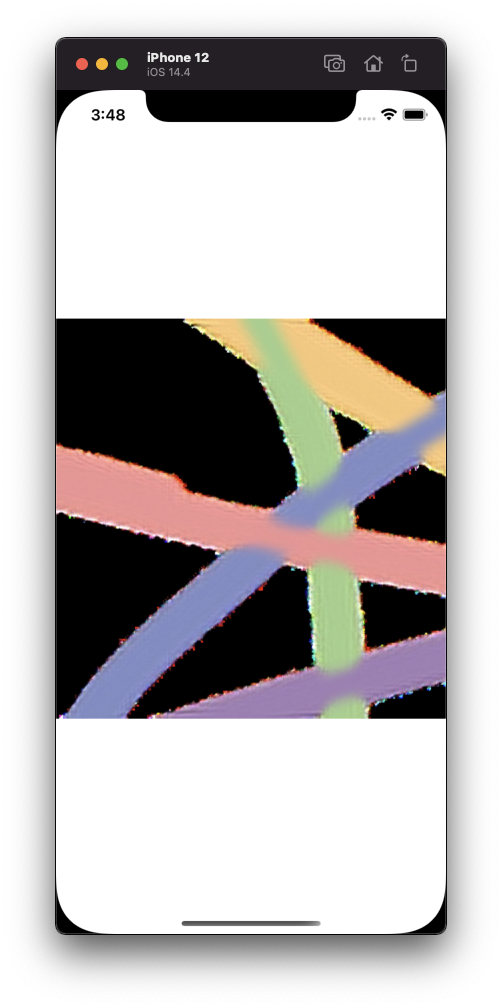
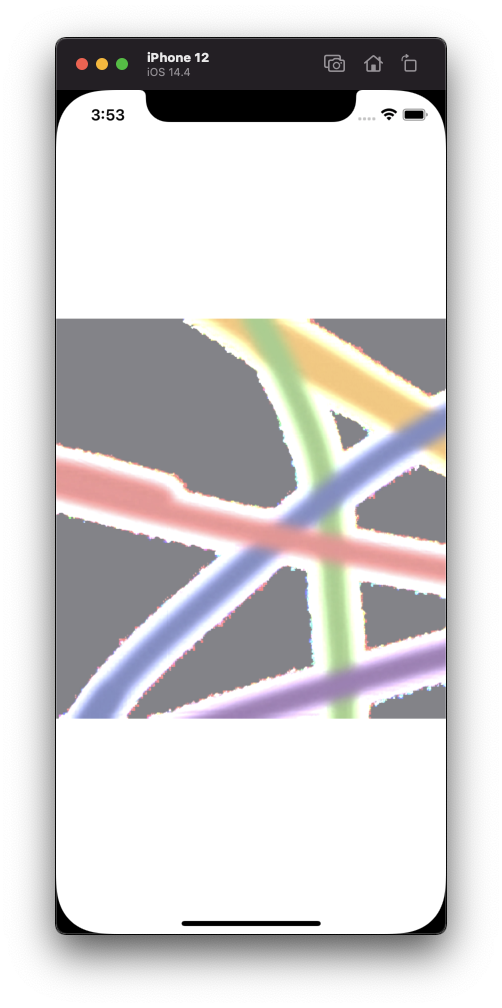
Gray background is more visible

Changed region(s): [[0.0896, 0.3075, 0.8964, 0.7381], [0.3586, 0.8919, 0.6275, 0.9226], [0.2092, 0.0923, 0.239, 0.123]]

diff --git a/ios-imageview-heif-alpha-bug/ContentView.swift b/ios-imageview-heif-alpha-bug/ContentView.swift
@@ -10,7 +10,7 @@ import SwiftUI
 struct ContentView: View {
     var body: some View {
         Image(uiImage: UIImage(contentsOfFile: Bundle.main.path(forResource: "test", ofType: "heic")!)!)
-            .background(Color.black)
+            .background(Color.gray)
     }
 }
 
